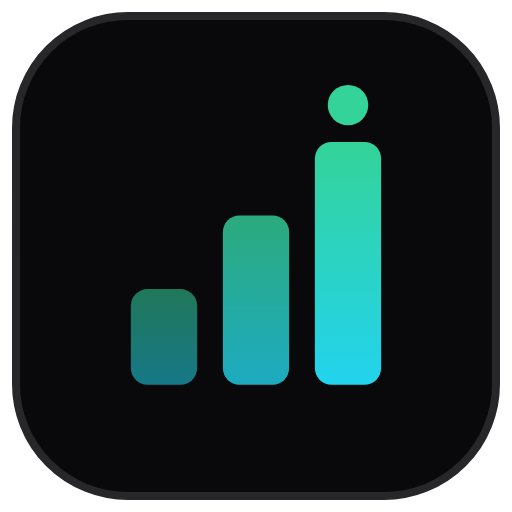
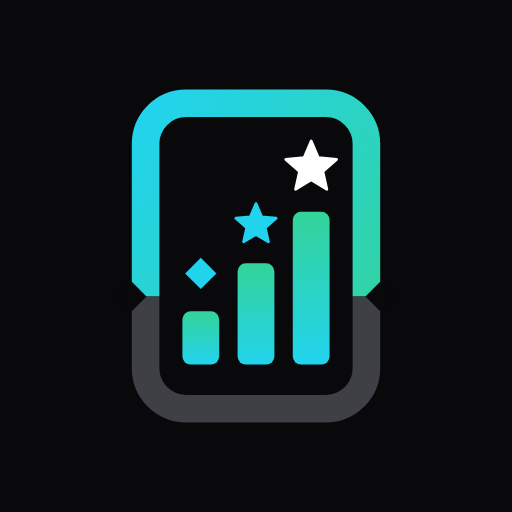
Add files via upload

diff --git a/index.html b/index.html
@@ -9,6 +9,7 @@
        Volontairement SANS service worker : l'icône ouvre toujours la version en ligne à jour. -->
   <link rel="manifest" href="manifest.webmanifest" />
   <meta name="theme-color" content="#09090b" />
+  <link rel="icon" type="image/svg+xml" href="icon.svg" />
   <link rel="icon" type="image/png" sizes="192x192" href="icon-192.png" />
   <link rel="apple-touch-icon" sizes="180x180" href="apple-touch-icon.png" />
   <meta name="apple-mobile-web-app-title" content="Coach JCC" />
@@ -40,6 +41,30 @@
     ::-webkit-scrollbar-thumb { background: rgb(63 63 70); border-radius: 9999px; }
     ::-webkit-scrollbar-thumb:hover { background: rgb(82 82 91); }
     body { -webkit-tap-highlight-color: transparent; }
+
+    /* ===== Identité visuelle (29/09/2026) — reprise de l'icône : fond #09090b, dégradé cyan #22d3ee → vert #34d399,
+       gris jauge #3f3f46, symboles de rareté ◇ → ★ → étoile blanche. CSS pur, n'utilise aucune ressource externe. */
+    :root { --brand-cyan: #22d3ee; --brand-green: #34d399; --brand-track: #3f3f46; --brand-bg: #09090b; }
+    .brand-grad { background-image: linear-gradient(90deg, var(--brand-cyan), var(--brand-green)); }
+    .brand-grad-text { background-image: linear-gradient(90deg, var(--brand-cyan), var(--brand-green)); -webkit-background-clip: text; background-clip: text; color: transparent; }
+    /* Bouton principal : dégradé + texte foncé (contraste > 7:1 sur le cyan/vert) */
+    .btn-brand { background-image: linear-gradient(90deg, var(--brand-cyan), var(--brand-green)); color: var(--brand-bg); font-weight: 700; transition: filter .15s, transform .05s; }
+    .btn-brand:hover { filter: brightness(1.1); }
+    .btn-brand:active { transform: translateY(1px); }
+    /* Panneaux "façon carte" : liseré dégradé discret en haut, comme la partie remplie du contour de l'icône */
+    .card-panel { position: relative; }
+    .card-panel::before { content: ""; position: absolute; left: 18px; right: 18px; top: -1px; height: 2px; border-radius: 2px;
+      background-image: linear-gradient(90deg, var(--brand-cyan), var(--brand-green)); opacity: .55; pointer-events: none; }
+    /* Puce de titre de section : petit losange ◇ en dégradé (remplace les pastilles de couleur) */
+    .pip { display: inline-block; width: 8px; height: 8px; transform: rotate(45deg); border-radius: 1.5px; flex: none;
+      background-image: linear-gradient(135deg, var(--brand-cyan), var(--brand-green)); }
+    /* Jauge de progression : piste grise + remplissage dégradé + encoche au point de transition (comme l'icône) */
+    .gauge-track { position: relative; height: 12px; border-radius: 9999px; background: var(--brand-track); overflow: hidden; }
+    .gauge-fill { height: 100%; border-radius: 9999px; background-image: linear-gradient(90deg, var(--brand-cyan), var(--brand-green)); transition: width .5s; }
+    .gauge-notch { position: absolute; top: 50%; width: 10px; height: 10px; margin-left: -5px; transform: translateY(-50%) rotate(45deg);
+      background: var(--brand-bg); border-radius: 1px; transition: left .5s; }
+    .brand-logo { width: 44px; height: 44px; border-radius: 11px; flex: none; box-shadow: 0 0 0 1px #27272a; }
+    @media (min-width: 640px) { .brand-logo { width: 52px; height: 52px; border-radius: 13px; } }
   </style>
 </head>
 <body class="min-h-screen bg-zinc-950 text-zinc-200 font-sans antialiased selection:bg-cyan-500/30">
@@ -48,11 +73,30 @@
 
     <!-- HEADER -->
     <header class="mb-6 flex flex-col gap-2 border-b border-zinc-800 pb-5 sm:flex-row sm:items-end sm:justify-between">
-      <div>
-        <h1 class="text-2xl font-bold tracking-tight text-white sm:text-3xl">
-          Mon Coach <span class="text-cyan-400">JCC Pocket</span>
-        </h1>
-        <p class="text-sm text-zinc-500">Pro Edition v2.0 — Coach compétitif JCC Pocket</p>
+      <div class="flex items-center gap-3">
+        <!-- Logo = icône de l'appli (même dessin que icon.svg, inline : aucune requête supplémentaire) -->
+        <svg class="brand-logo" xmlns="http://www.w3.org/2000/svg" viewBox="0 0 512 512" aria-hidden="true"><defs>
+  <linearGradient id="gs-logo" x1="0" y1="0" x2="1" y2="1"><stop offset="0" stop-color="#22d3ee"/><stop offset="1" stop-color="#34d399"/></linearGradient>
+  <linearGradient id="gb-logo" x1="0" y1="1" x2="0" y2="0" gradientUnits="objectBoundingBox"><stop offset="0" stop-color="#22d3ee"/><stop offset="1" stop-color="#34d399"/></linearGradient>
+</defs><rect width="512" height="512" fill="#09090b"/><g transform="translate(256 256) scale(0.92) translate(-256 -256)">
+  <clipPath id="top-logo"><rect x="0" y="0" width="512" height="300"/></clipPath>
+  <clipPath id="bot-logo"><rect x="0" y="300" width="512" height="212"/></clipPath>
+  <rect x="136" y="90" width="240" height="332" rx="44" fill="none" stroke-width="30" stroke="url(#gs-logo)" clip-path="url(#top-logo)"/>
+  <rect x="136" y="90" width="240" height="332" rx="44" fill="none" stroke-width="30" stroke="#3f3f46" clip-path="url(#bot-logo)"/>
+  <polygon points="105.0,300 121.0,284 137.0,300 121.0,316" fill="#09090b"/>
+  <polygon points="375.0,300 391.0,284 407.0,300 391.0,316" fill="#09090b"/>
+  <rect x="176" y="316" width="40" height="58" rx="9" fill="url(#gb-logo)"/>
+  <rect x="236" y="264" width="40" height="110" rx="9" fill="url(#gb-logo)"/>
+  <rect x="296" y="208" width="40" height="166" rx="9" fill="url(#gb-logo)"/>
+  <polygon points="196,258 213,275 196,292 179,275" fill="#22d3ee"/>
+  <polygon points="256.0,199.0 262.2,213.4 277.9,214.9 266.1,225.3 269.5,240.6 256.0,232.6 242.5,240.6 245.9,225.3 234.1,214.9 249.8,213.4" fill="#22d3ee" stroke="#22d3ee" stroke-width="3" stroke-linejoin="round"/>
+  <polygon points="316.0,131.0 323.8,149.2 343.6,151.0 328.7,164.1 333.0,183.5 316.0,173.3 299.0,183.5 303.3,164.1 288.4,151.0 308.2,149.2" fill="#ffffff" stroke="#ffffff" stroke-width="3" stroke-linejoin="round"/></g></svg>
+        <div>
+          <h1 class="text-2xl font-bold tracking-tight text-white sm:text-3xl">
+            Mon Coach <span class="brand-grad-text">JCC Pocket</span>
+          </h1>
+          <p class="text-sm text-zinc-500">Pro Edition v2.0 — Coach compétitif JCC Pocket</p>
+        </div>
       </div>
       <div class="flex items-center gap-4">
         <button onclick="openCollectionManager()" title="Gérer votre possession de cartes, extension par extension, sans passer par un deck" class="rounded-lg border border-emerald-500/40 bg-emerald-950/30 px-3 py-1.5 text-xs font-bold text-emerald-300 transition hover:bg-emerald-900/40">📚 Ma Collection</button>
@@ -69,9 +113,9 @@
     <div class="grid grid-cols-1 gap-5 lg:grid-cols-3">
 
       <!-- 1. GLOBAL PROGRESS TRACKER -->
-      <section class="rounded-2xl border border-zinc-800 bg-zinc-900/50 p-5 lg:col-span-2">
+      <section class="card-panel rounded-2xl border border-zinc-800 bg-zinc-900/50 p-5 lg:col-span-2">
         <h2 class="mb-4 flex items-center gap-2 text-sm font-semibold uppercase tracking-wider text-zinc-400">
-          <span class="h-2 w-2 rounded-full bg-cyan-400"></span> Progression Globale
+          <span class="pip"></span> Progression Globale
         </h2>
         <div class="grid grid-cols-2 gap-4 sm:grid-cols-4">
           <div class="rounded-xl bg-zinc-950/60 p-4">
@@ -98,8 +142,10 @@
             <span>Progression vers l'objectif</span>
             <span id="progressLabel">0%</span>
           </div>
-          <div class="h-2.5 w-full overflow-hidden rounded-full bg-zinc-800">
-            <div id="progressBar" class="h-full rounded-full bg-gradient-to-r from-cyan-500 to-emerald-400 transition-all duration-500" style="width:0%"></div>
+          <!-- Jauge façon contour de l'icône : piste grise, remplissage dégradé, encoche ◆ au point de transition -->
+          <div class="gauge-track">
+            <div id="progressBar" class="gauge-fill" style="width:0%"></div>
+            <span id="progressNotch" class="gauge-notch" style="left:0%"></span>
           </div>
         </div>
 
@@ -111,9 +157,9 @@
       </section>
 
       <!-- 2. TIME ENGINE & ENERGY ADVISOR -->
-      <section class="rounded-2xl border border-zinc-800 bg-zinc-900/50 p-5">
+      <section class="card-panel rounded-2xl border border-zinc-800 bg-zinc-900/50 p-5">
         <h2 class="mb-4 flex items-center gap-2 text-sm font-semibold uppercase tracking-wider text-zinc-400">
-          <span class="h-2 w-2 rounded-full bg-violet-400"></span> Moteur Temps & Énergie
+          <span class="pip"></span> Moteur Temps & Énergie
         </h2>
         <div class="rounded-xl bg-zinc-950/60 p-5 text-center">
           <div id="bigClock" class="font-mono text-4xl font-bold tabular-nums text-white">--:--:--</div>
@@ -124,9 +170,9 @@
       </section>
 
       <!-- 5. QUICK MATCH LOGGER -->
-      <section class="rounded-2xl border border-zinc-800 bg-zinc-900/50 p-5">
+      <section class="card-panel rounded-2xl border border-zinc-800 bg-zinc-900/50 p-5">
         <h2 class="mb-4 flex items-center gap-2 text-sm font-semibold uppercase tracking-wider text-zinc-400">
-          <span class="h-2 w-2 rounded-full bg-amber-400"></span> Logger de Match
+          <span class="pip"></span> Logger de Match
         </h2>
         <label class="text-xs text-zinc-500">Deck utilisé</label>
         <select id="matchDeck" class="mb-3 mt-1 w-full rounded-lg border border-zinc-700 bg-zinc-950 px-3 py-2 text-sm text-white outline-none focus:border-cyan-500"></select>
@@ -136,20 +182,20 @@
              "méta auto-rafraîchie" dans suivi-developpement.md. -->
         <select id="matchOpponent" class="mb-4 mt-1 w-full rounded-lg border border-zinc-700 bg-zinc-950 px-3 py-2 text-sm text-white outline-none focus:border-cyan-500"></select>
         <!-- Badge de série de victoires : visible uniquement si state.winStreak > 0 (renderStreak) -->
-        <div id="winStreakBadge" class="mb-3 hidden items-center justify-between rounded-lg border border-amber-500/40 bg-amber-950/40 px-3 py-2 text-sm">
-          <span id="winStreakText" class="font-semibold text-amber-300"></span>
-          <span id="winStreakNext" class="font-mono text-xs text-amber-400/80"></span>
+        <div id="winStreakBadge" class="mb-3 hidden items-center justify-between rounded-lg border border-cyan-500/40 bg-cyan-950/30 px-3 py-2 text-sm">
+          <span id="winStreakText" class="brand-grad-text font-semibold"></span>
+          <span id="winStreakNext" class="whitespace-nowrap font-mono text-xs text-emerald-300/80"></span>
         </div>
         <div class="grid grid-cols-2 gap-3">
-          <button id="winButton" onclick="logMatch('win')" class="rounded-lg bg-emerald-600 py-2.5 text-sm font-bold text-white transition hover:bg-emerald-500">VICTOIRE +10</button>
+          <button id="winButton" onclick="logMatch('win')" class="btn-brand rounded-lg py-2.5 text-sm">VICTOIRE +10</button>
           <button onclick="logMatch('loss')" class="rounded-lg bg-red-600 py-2.5 text-sm font-bold text-white transition hover:bg-red-500">DÉFAITE -10</button>
         </div>
       </section>
 
       <!-- Per-opponent winrate breakdown -->
-      <section class="rounded-2xl border border-zinc-800 bg-zinc-900/50 p-5">
+      <section class="card-panel rounded-2xl border border-zinc-800 bg-zinc-900/50 p-5">
         <h2 class="mb-4 flex items-center gap-2 text-sm font-semibold uppercase tracking-wider text-zinc-400">
-          <span class="h-2 w-2 rounded-full bg-sky-400"></span> Winrate / Adversaire
+          <span class="pip"></span> Winrate / Adversaire
         </h2>
         <div class="overflow-hidden rounded-lg border border-zinc-800">
           <table class="w-full text-sm">
@@ -162,9 +208,9 @@
       </section>
 
       <!-- 8. META STRATEGY REMINDERS -->
-      <section class="rounded-2xl border border-zinc-800 bg-zinc-900/50 p-5">
+      <section class="card-panel rounded-2xl border border-zinc-800 bg-zinc-900/50 p-5">
         <h2 class="mb-2 flex items-center gap-2 text-sm font-semibold uppercase tracking-wider text-zinc-400">
-          <span class="h-2 w-2 rounded-full bg-pink-400"></span> Méta — Rappels Stratégiques
+          <span class="pip"></span> Méta — Rappels Stratégiques
         </h2>
         <!-- Indicateur de fraîcheur : masqué quand la liste vient bien d'être récupérée en ligne,
              affiché (avec la date de dernière synchronisation connue) quand l'appli tourne sur le
@@ -174,12 +220,12 @@
       </section>
 
       <!-- 3. ARSENAL MANAGEMENT -->
-      <section class="rounded-2xl border border-zinc-800 bg-zinc-900/50 p-5 lg:col-span-3">
+      <section class="card-panel rounded-2xl border border-zinc-800 bg-zinc-900/50 p-5 lg:col-span-3">
         <div class="mb-4 flex items-center justify-between">
           <h2 class="flex items-center gap-2 text-sm font-semibold uppercase tracking-wider text-zinc-400">
-            <span class="h-2 w-2 rounded-full bg-cyan-400"></span> Arsenal — Gestion des Decks
+            <span class="pip"></span> Arsenal — Gestion des Decks
           </h2>
-          <button onclick="addDeck()" class="rounded-lg bg-cyan-600 px-3 py-1.5 text-xs font-bold text-white transition hover:bg-cyan-500">+ Nouveau Deck</button>
+          <button onclick="addDeck()" class="btn-brand rounded-lg px-3 py-1.5 text-xs">+ Nouveau Deck</button>
         </div>
         <div class="overflow-x-auto rounded-lg border border-zinc-800">
           <table class="w-full text-sm">
@@ -201,20 +247,20 @@
       </section>
 
       <!-- 4. CARD INSPECTOR -->
-      <section id="inspectorSection" class="hidden rounded-2xl border border-zinc-800 bg-zinc-900/50 p-5 lg:col-span-3">
+      <section id="inspectorSection" class="card-panel hidden rounded-2xl border border-zinc-800 bg-zinc-900/50 p-5 lg:col-span-3">
         <div class="mb-4 flex items-center justify-between">
           <h2 class="flex items-center gap-2 text-sm font-semibold uppercase tracking-wider text-zinc-400">
-            <span class="h-2 w-2 rounded-full bg-emerald-400"></span> Inspecteur — <span id="inspectorDeckName" class="text-white"></span>
+            <span class="pip"></span> Inspecteur — <span id="inspectorDeckName" class="text-white"></span>
           </h2>
-          <button onclick="openCardEditor()" class="rounded-lg bg-emerald-600 px-3 py-1.5 text-xs font-bold text-white transition hover:bg-emerald-500">Éditer les cartes</button>
+          <button onclick="openCardEditor()" class="btn-brand rounded-lg px-3 py-1.5 text-xs">Éditer les cartes</button>
         </div>
         <div id="cardGrid" class="grid grid-cols-2 gap-2 sm:grid-cols-4 md:grid-cols-5"></div>
       </section>
 
       <!-- 6. MATCH HISTORY -->
-      <section class="rounded-2xl border border-zinc-800 bg-zinc-900/50 p-5 lg:col-span-3">
+      <section class="card-panel rounded-2xl border border-zinc-800 bg-zinc-900/50 p-5 lg:col-span-3">
         <h2 class="mb-4 flex items-center gap-2 text-sm font-semibold uppercase tracking-wider text-zinc-400">
-          <span class="h-2 w-2 rounded-full bg-amber-400"></span> Journal des Matchs
+          <span class="pip"></span> Journal des Matchs
         </h2>
         <div class="max-h-80 overflow-y-auto rounded-lg border border-zinc-800">
           <table class="w-full text-sm">
@@ -772,6 +818,10 @@
       let pct = Math.round(((state.points - base) / span) * 100);
       pct = Math.max(0, Math.min(100, pct));
       document.getElementById("progressBar").style.width = pct + "%";
+      // Encoche visible seulement entre 1 et 99 % (à 0 % ou 100 %, pas de point de transition à marquer)
+      const notch = document.getElementById("progressNotch");
+      notch.style.left = pct + "%";
+      notch.style.display = (pct > 0 && pct < 100) ? "" : "none";
       document.getElementById("progressLabel").textContent = pct + "%";
 
       // recent dots (last 12)
@@ -904,14 +954,14 @@
         const ds = computeDeckStatus(deck);
         let statusBadge;
         if (ds.status === "validated") {
-          statusBadge = '<span class="rounded bg-emerald-900/40 px-2 py-0.5 text-[10px] font-bold uppercase text-emerald-300">100% Validé</span>';
+          statusBadge = '<span class="rounded bg-emerald-900/40 px-2 py-0.5 text-[10px] font-bold uppercase text-emerald-300">★ 100% Validé</span>';
         } else if (ds.status === "incomplete") {
           // "À compléter" : le compte détaillé (possédées/20) évite d'avoir à rouvrir l'éditeur de
           // cartes juste pour savoir où on en est — le détail carte par carte, lui, reste dans l'éditeur.
-          statusBadge = '<span class="rounded bg-amber-900/40 px-2 py-0.5 text-[10px] font-bold uppercase text-amber-300">À compléter</span>' +
+          statusBadge = '<span class="rounded bg-amber-900/40 px-2 py-0.5 text-[10px] font-bold uppercase text-amber-300">☆ À compléter</span>' +
             '<div class="mt-0.5 font-mono text-[9px] text-amber-400/80">' + ds.owned + '/20 possédées</div>';
         } else {
-          statusBadge = '<span class="rounded bg-zinc-800 px-2 py-0.5 text-[10px] font-bold uppercase text-zinc-400">En étude</span>';
+          statusBadge = '<span class="rounded bg-zinc-800 px-2 py-0.5 text-[10px] font-bold uppercase text-zinc-400">◇ En étude</span>';
         }
         const tr = document.createElement("tr");
         tr.className = "cursor-pointer border-t border-zinc-800 transition hover:bg-zinc-800/40 " + (deck.id === selectedDeckId ? "bg-cyan-950/30" : "");
@@ -1067,7 +1117,7 @@
       document.getElementById("winButton").textContent = "VICTOIRE +" + next;
       if (n > 0) {
         document.getElementById("winStreakText").textContent =
-          "🔥 " + n + (n === 1 ? " victoire consécutive" : " victoires consécutives");
+          "★ " + n + (n === 1 ? " victoire consécutive" : " victoires consécutives");
         document.getElementById("winStreakNext").textContent = "prochaine : +" + next;
         badge.classList.remove("hidden");
         badge.classList.add("flex");
